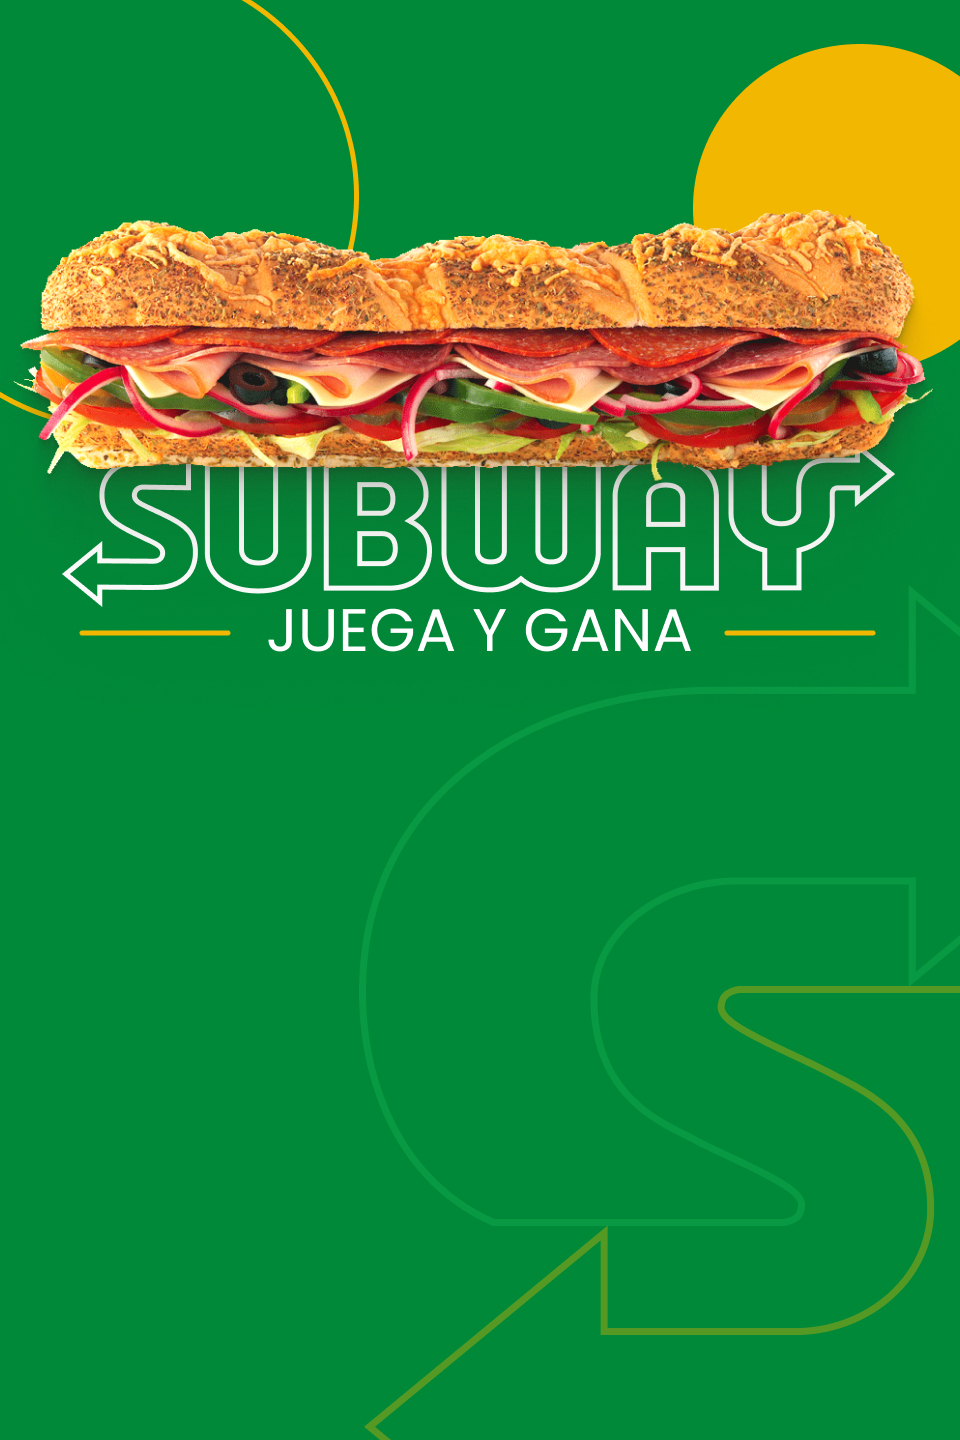
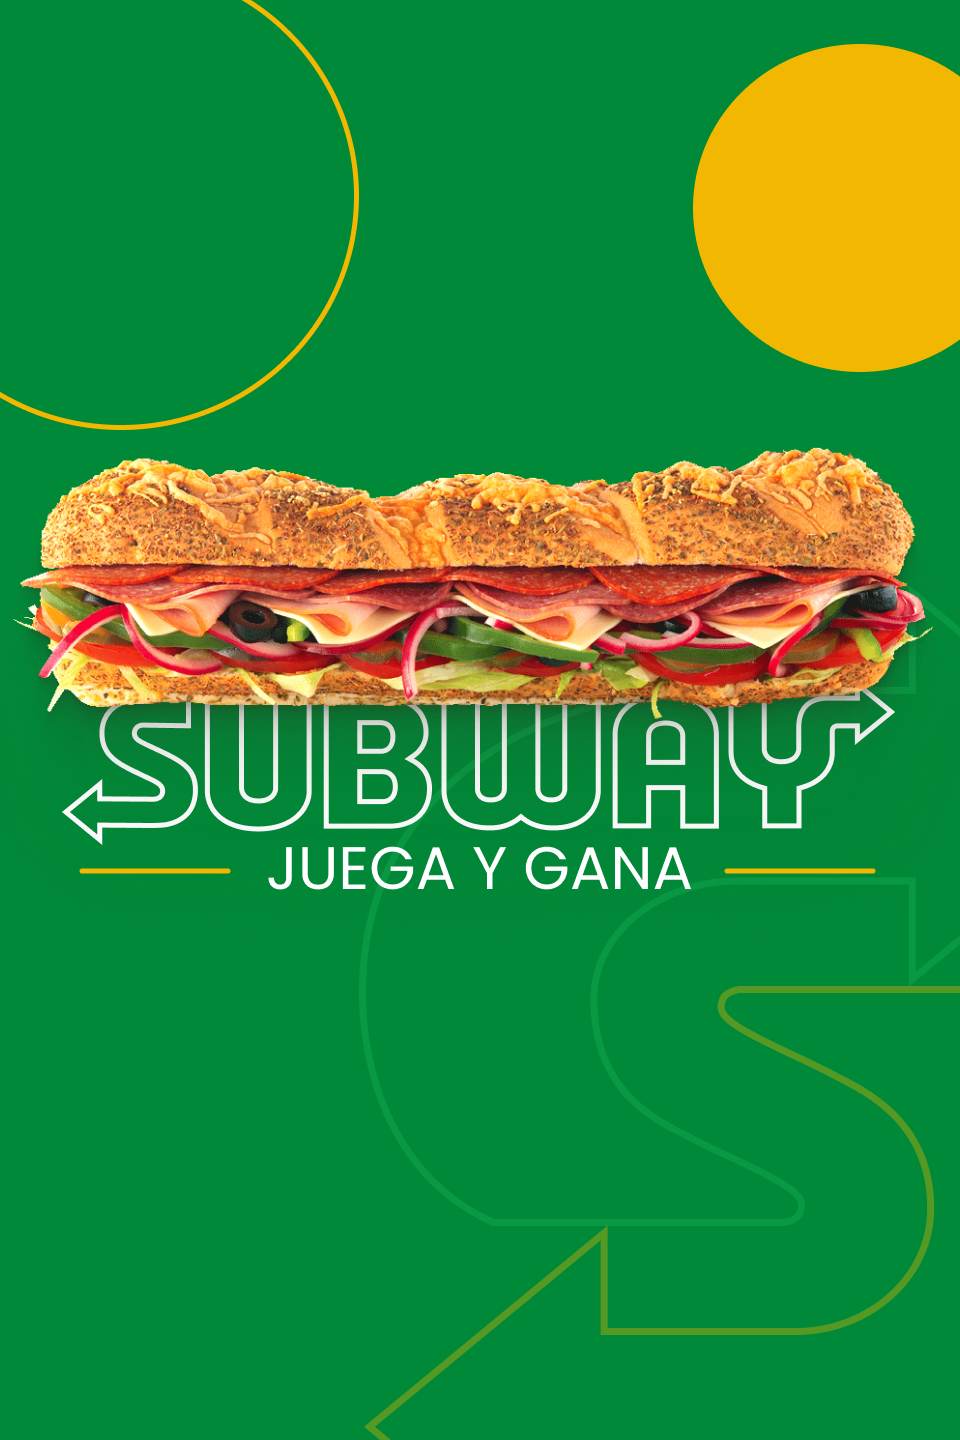
Imagenes de pantallas cargadas

diff --git a/public-app/sketch.js b/public-app/sketch.js
@@ -4,7 +4,7 @@ class Ingredient {
         this.y = yPos;
         this.type = Math.floor(random(0, 4));
         this.ingredientRandom();
-        this.imageFile = loadImage(`/src/${this.ingredientType}.png`);
+        //this.imageFile = loadImage(`/src/${this.ingredientType}.png`);
     }
 
     ingredientRandom() {
@@ -29,14 +29,16 @@ class Ingredient {
         }
     }
     show(){
-        image(this.imageFile, this.x, this.y);
+        //image(this.imageFile, this.x, this.y);
     }
 }
 
 //Cowndown
 timer = function() {
     setInterval(function() {
-        count --;
+        if(count > 0){
+            count --;
+        }
     }, 1000);
 }
 
@@ -50,7 +52,7 @@ let ingredients = [];
 
 let mixIngredients;                                         
 
-let mobileScreen = 2;
+let mobileScreen = 5;
 
 let count = 20;
 
@@ -86,13 +88,21 @@ function setup() {
 }
 
 function draw() {
-    background(0, 102,42);
     newCursor(pmouseX, pmouseY);
     fill(255);
     //Bread :D
 
     switch (mobileScreen) {
         case 1:
+            image(imageFiles[20], 0, 0, 395, 853);
+            break;
+        
+        case 2:
+            image(imageFiles[21], 0, 0, 395, 853);
+            rect(100, 100, 200, 200);
+            break;
+        case 3:
+            image(imageFiles[22], 0, 0, 395, 853);
             textSize(60);
             textAlign(CENTER);
             text("00 : " + count, windowWidth/2, windowHeight/2);
@@ -102,7 +112,8 @@ function draw() {
                 count = 10;
             }
             break;
-        case 2:
+        case 4:
+            image(imageFiles[23], 0, 0, 395, 853);
             fill(253, 221, 202);
             imageMode(CENTER)
             image(imageFiles[0], windowWidth/2, 120, 250, 250);
@@ -131,6 +142,9 @@ function draw() {
                 xPos += 120;
             }
             image(imageFiles[0], windowWidth/2, 420, 250, 250);
+        case 5:
+            image(imageFiles[24], 0, 0, 395, 853);
+            break;
         default:
             break;
     }
@@ -138,7 +152,7 @@ function draw() {
 }
 
 function touchMoved() {
-    for (let i = 0; i < mixIngredients.length; i++) {
+    /*for (let i = 0; i < mixIngredients.length; i++) {
         const element = mixIngredients[i];
         if(xPos > 400){
             yPos += 50;
@@ -151,7 +165,7 @@ function touchMoved() {
             console.log(element);
         }
         xPos += 120;
-    }
+    }*/
     //socket.emit('mobile-instructions', { pmouseX, pmouseY});
 }
 
@@ -166,7 +180,11 @@ function newCursor(x, y) {
 }
 
 function loadIMG() {
-    imageFiles = [
-        loadImage('src/pan.png'),
-    ]
+    imageFiles[0] = loadImage('src/pan.png');
+    imageFiles[20] = loadImage('src/APP 0.jpg');
+    imageFiles[21] = loadImage('src/APP 1.jpg');
+    imageFiles[22] = loadImage('src/APP 2.jpg');
+    imageFiles[23] = loadImage('src/APP 3.jpg');
+    imageFiles[24] = loadImage('src/APP 4.jpg');
+
 }

diff --git a/public-mupi/sketch.js b/public-mupi/sketch.js
@@ -36,7 +36,14 @@ function draw() {
 
             break;
         case 1:
+            image(mupiImageFiles[1], 0, 0, 480, 720);
+            break;
+        case 2:
+            image(mupiImageFiles[2], 0, 0, 480, 720);
+            break;
+        case 3:
             background(0, 102,42);
+            image(mupiImageFiles[3], 0, 0, 480, 720);
             rect(windowWidth/2, 120, 250,50);
             rect(windowWidth/2, 620, 250,50);
             mupiIngredients.forEach((element) => {
@@ -49,7 +56,10 @@ function draw() {
                 text(element.ingredientType, windowWidth/2, element.y);
             });
             break;
-        case 2:
+        case 4:
+            image(mupiImageFiles[4], 0, 0, 480, 720);
+            break;
+        case 6:
             background(0, 102,42);
             break;
         default:
@@ -94,6 +104,9 @@ socket.on('mupi-data', data => {
 
 function mupiLoadImages() {
     mupiImageFiles = [
-        loadImage('src/MUPI 1.jpg')
+        loadImage('src/MUPI 0.jpg'),
+        loadImage('src/MUPI 1.jpg'),
+        loadImage('src/MUPI 2.jpg'),
+        loadImage('src/MUPI 3.jpg'),
     ]
 }

diff --git a/index.js b/index.js
@@ -1,7 +1,7 @@
 const express = require('express');
 const { Server } = require('socket.io');
 const PORT = 5050;
-const SERVER_IP = '172.30.232.2'; // Cambiar por la IP del computador
+const SERVER_IP = '192.168.1.71'; // Cambiar por la IP del computador
 
 //const os = require('os');
 //const IPaddress = os.networkInterfaces().en0[1].address;
